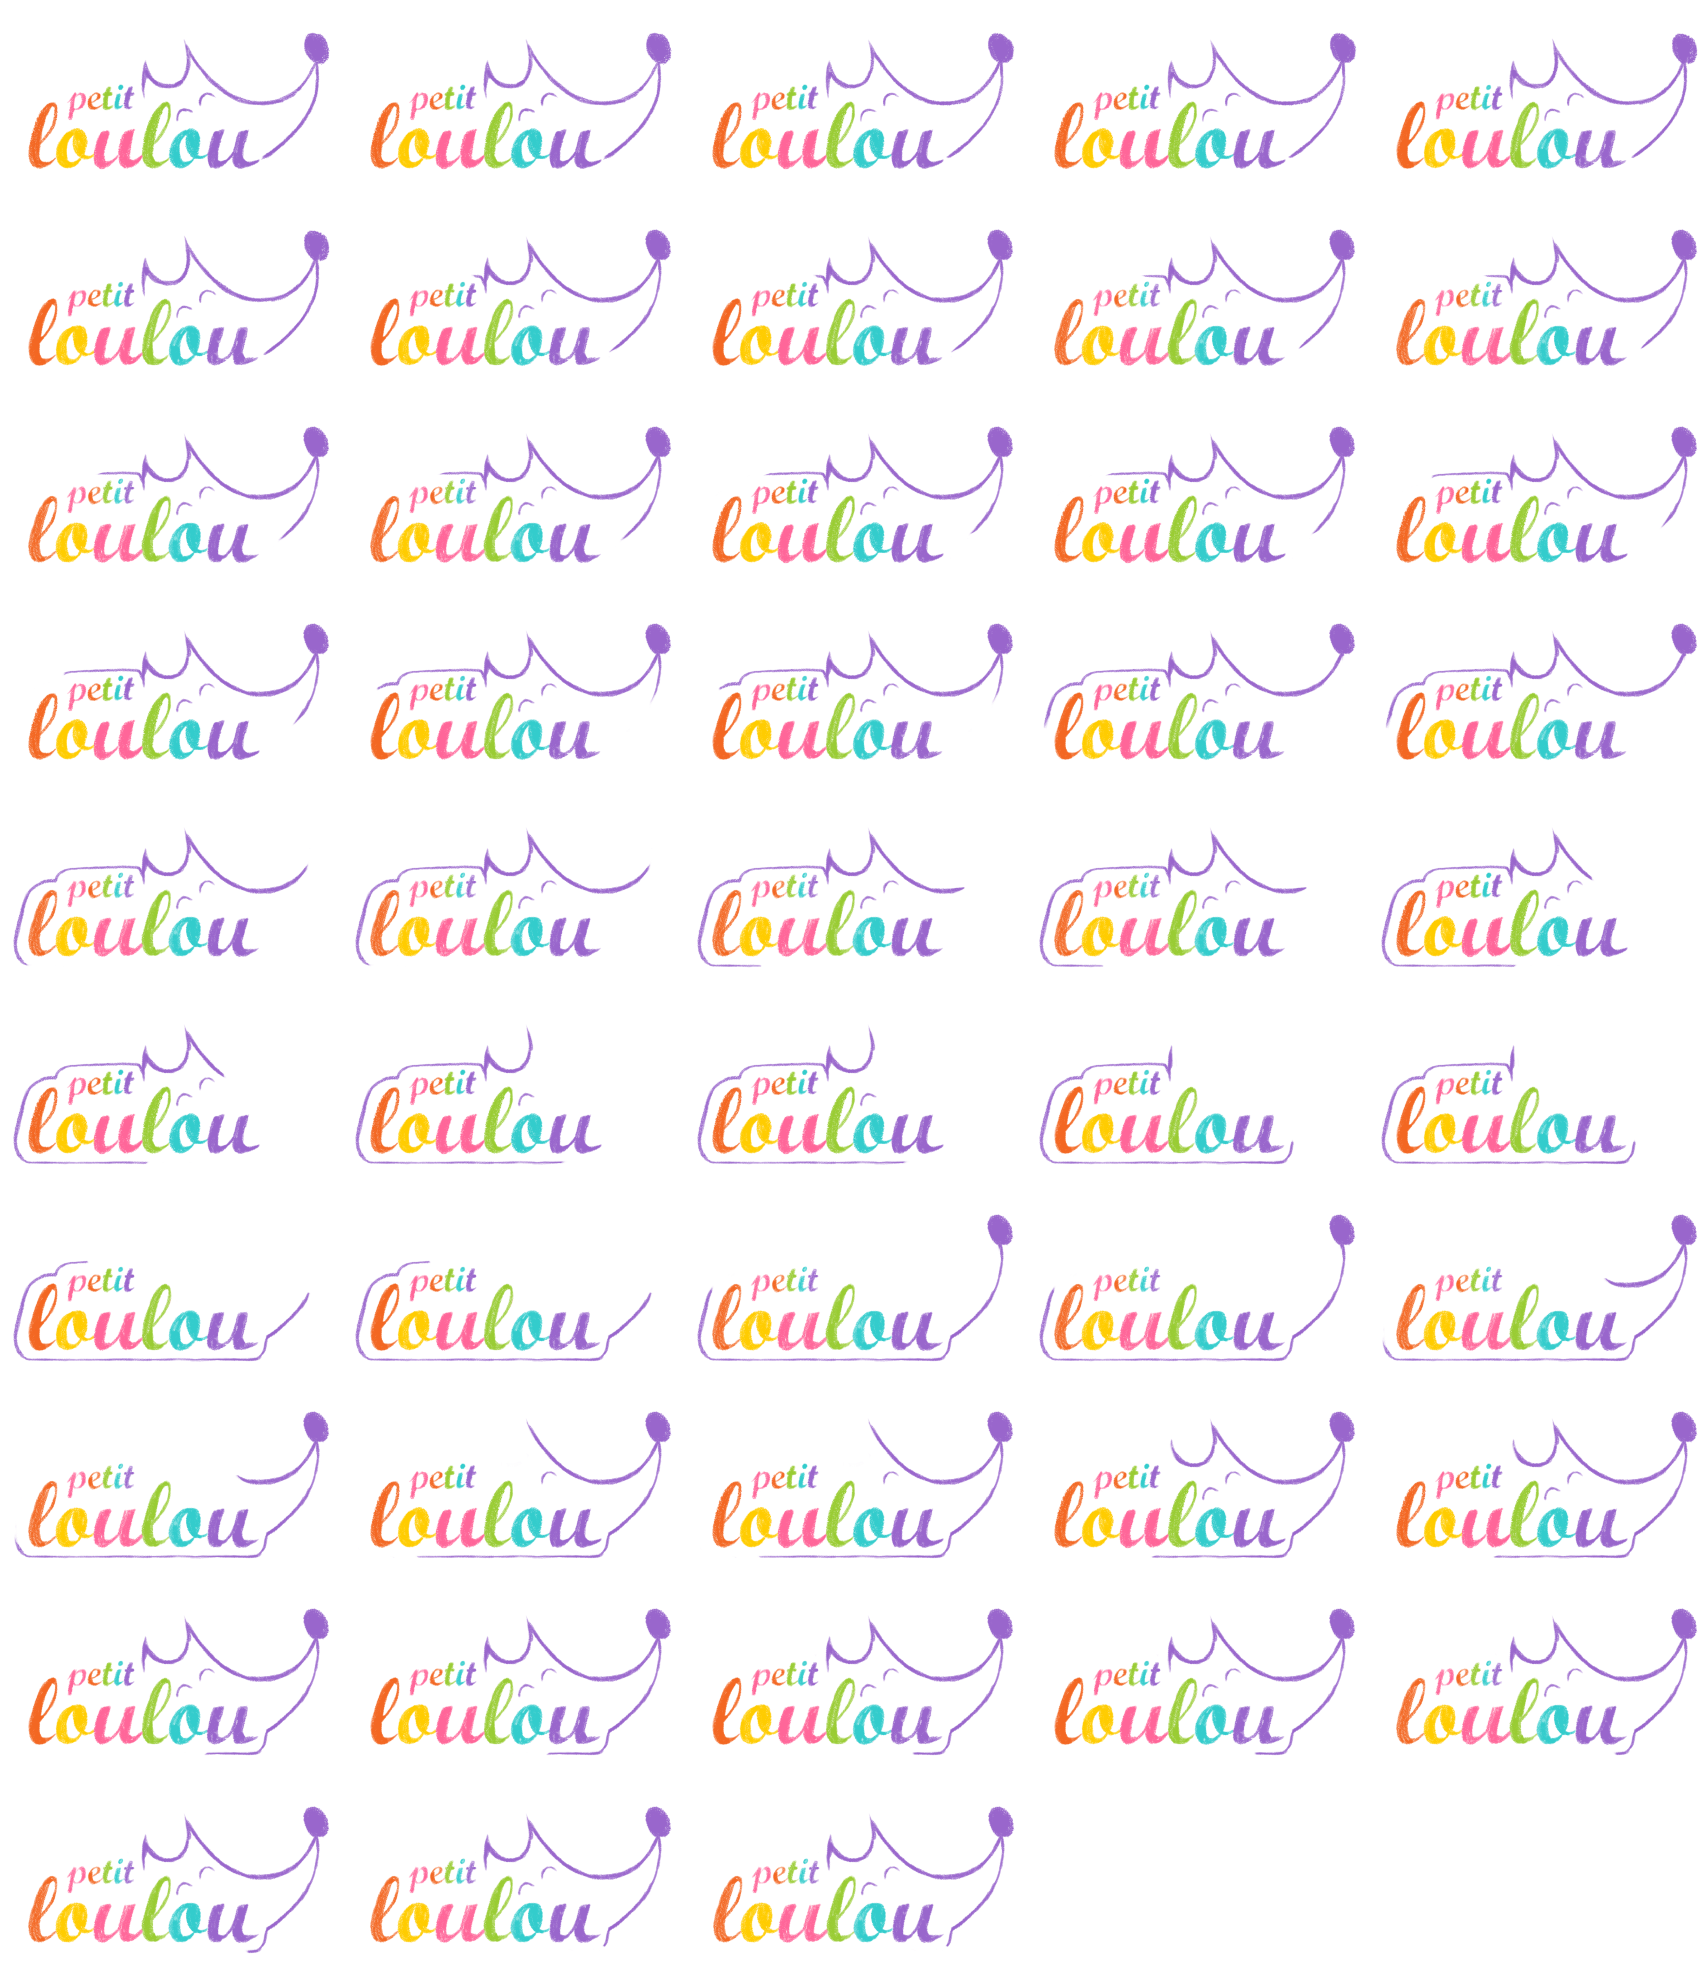
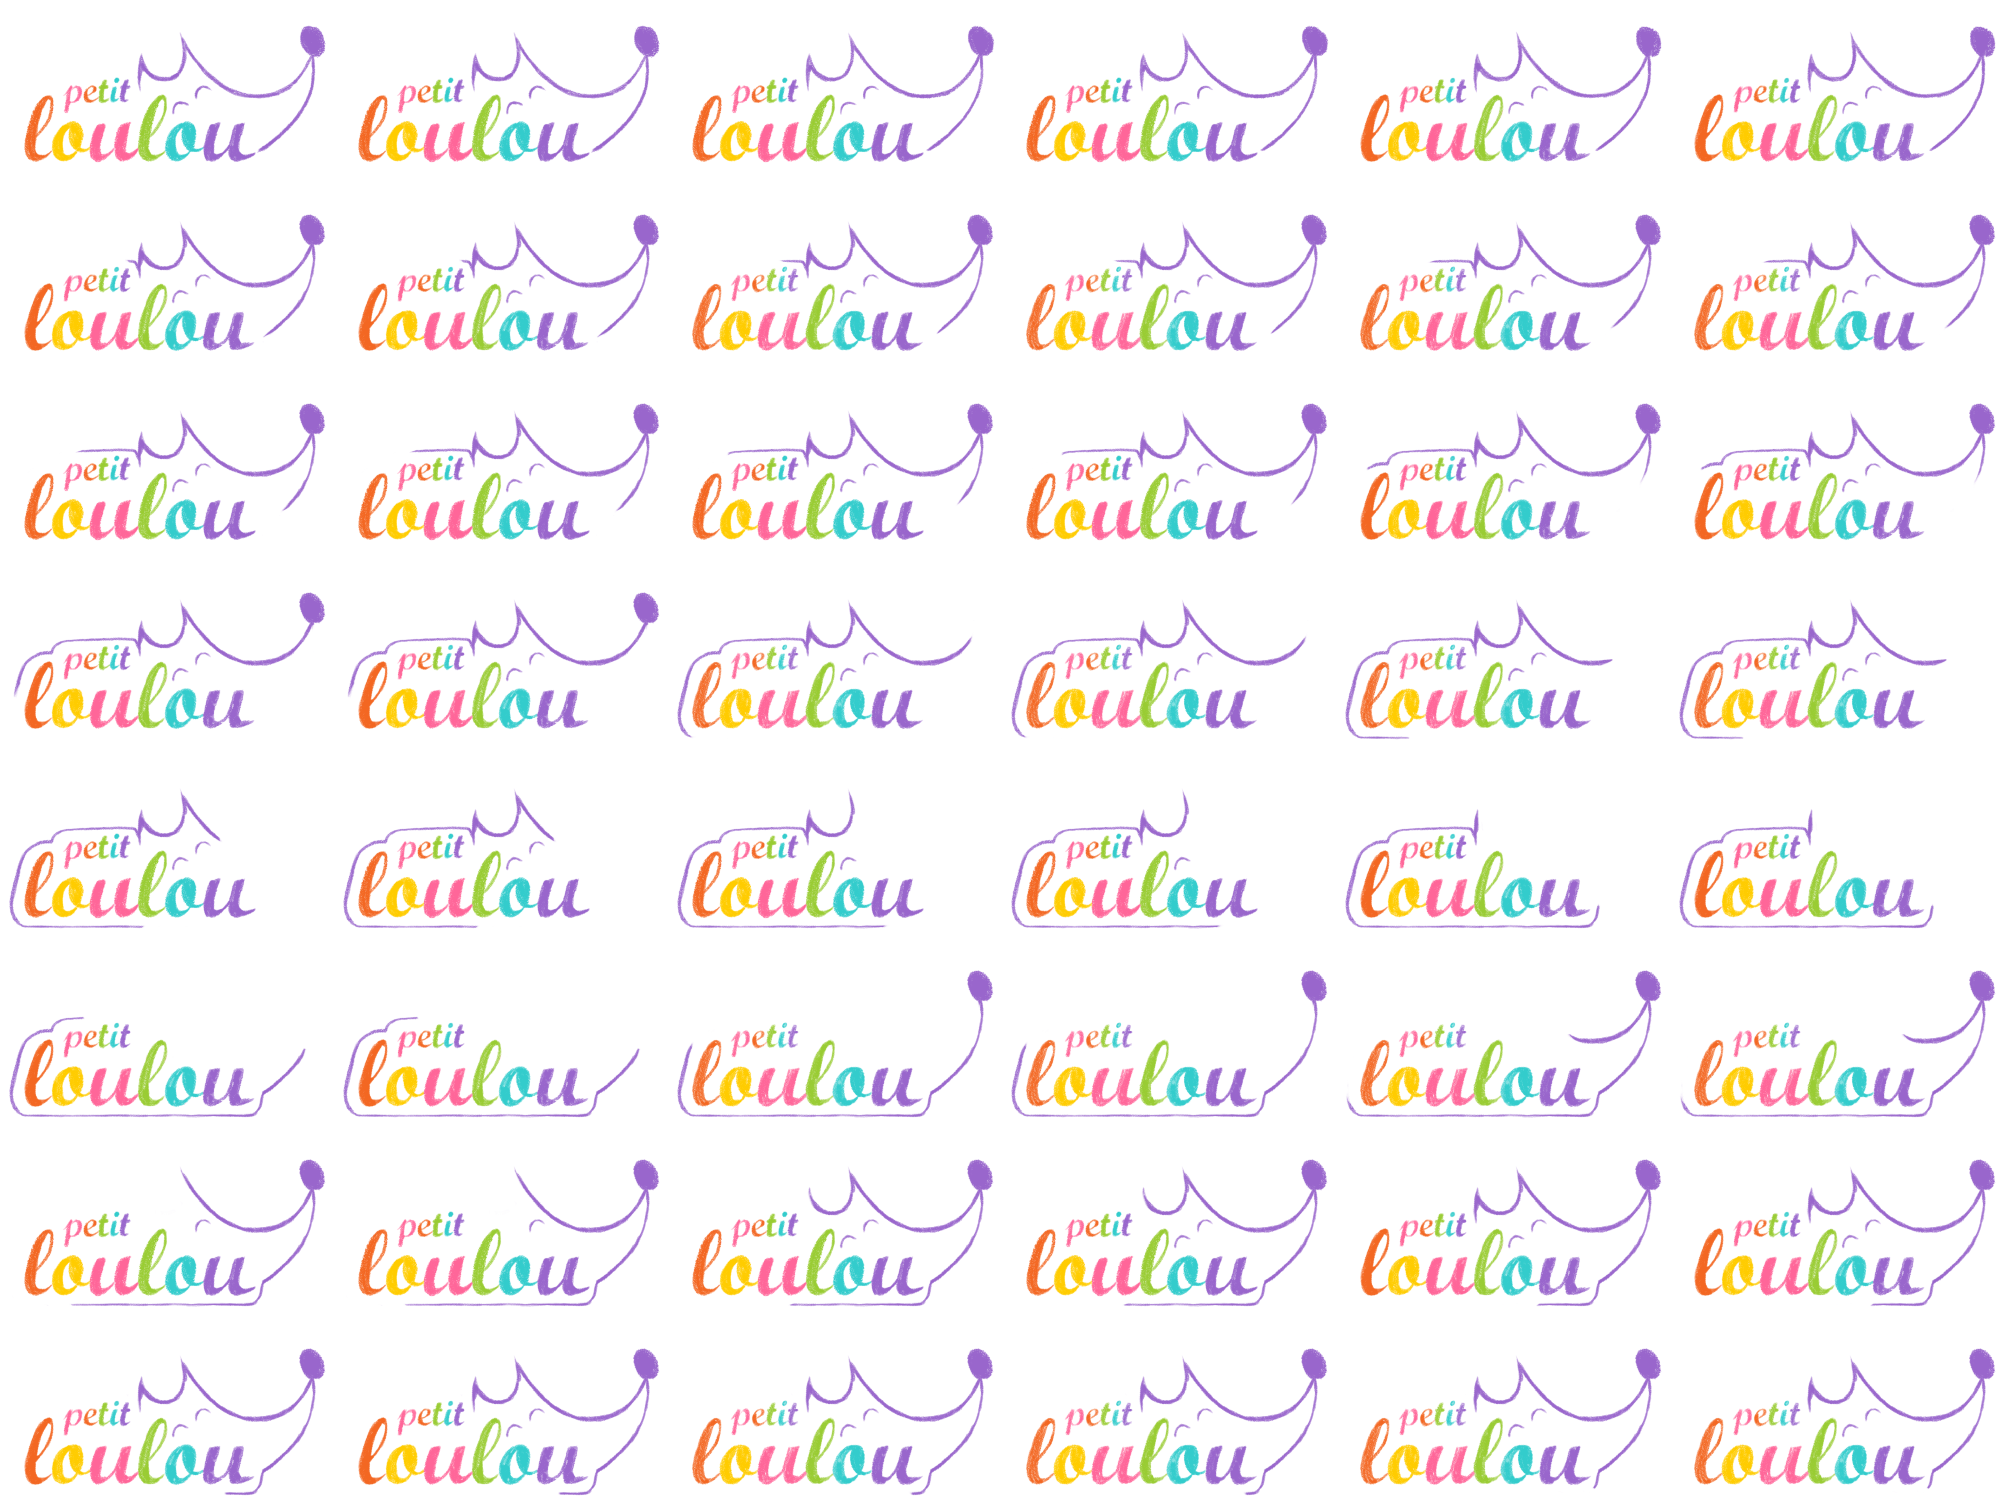
Added Loading Screen and Fixed Raccoon

Changed region(s): [[0.0, 0.0, 0.9947, 0.4974], [0.0, 0.5284, 0.9947, 0.9947]]

diff --git a/Js/loadState.js b/Js/loadState.js
@@ -1,17 +1,18 @@
 var LoadState = {
   preload: function() {
-    loadScreen = game.add.sprite(0,0,'loading');
+    loadScreen = game.add.sprite(game.world.centerX,game.world.centerY,'loading');
+    loadScreen.anchor.setTo(0.5, 0.5);
     loadScreen.animations.add('load');
     loadScreen.animations.play("load", 24, true);
     game.load.image('BG1', 'assets/BG1.png');
     game.load.image('BG2', 'assets/BG2.png');
     game.load.image('BG3', 'assets/BG3.png');
     //game.load.image('BG4', 'assets/BG4.png');
-    game.load.spritesheet('raccoon', 'assets/raccoon.png', 406, 228);
+    game.load.spritesheet('raccoon', 'assets/raccoon.png', 398, 220);
   },
 
   create: function(){
     game.state.add("StateMain", StateMain);
-    //game.state.start("StateMain");
+    game.state.start("StateMain");
   }
 }

diff --git a/Js/main.js b/Js/main.js
@@ -1,5 +1,3 @@
-var bg1; //furthest back
-var bg2;
 window.onload = function() {
 
   var isMobile = navigator.userAgent.indexOf("Mobile");
@@ -8,7 +6,12 @@ window.onload = function() {
 
   worldEndX = 6120*1.4;
 
-  game = new Phaser.Game(gameWidth,271, Phaser.AUTO, "ph_game");
+  game = new Phaser.Game(gameWidth,271, Phaser.AUTO, "ph_game", {create : create});
+
+  function create(){
+    game.stage.backgroundColor = 0xffffff;
+  }
+
   inputX = 0;
   inputY = 0;
 

diff --git a/Js/bootState.js b/Js/bootState.js
@@ -1,9 +1,10 @@
 var BootState = {
   preload: function() {
-    game.load.spritesheet('loading', 'assets/loadingScreen.png', 341, 197, 48);
+    game.load.spritesheet('loading', 'assets/loadingScreen.png', 334, 189, 48);
   },
 
   create: function(){
+    game.stage.backgroundColor = '#ffffff'; 
     game.state.add("LoadState", LoadState);
     game.state.start("LoadState");
   }
